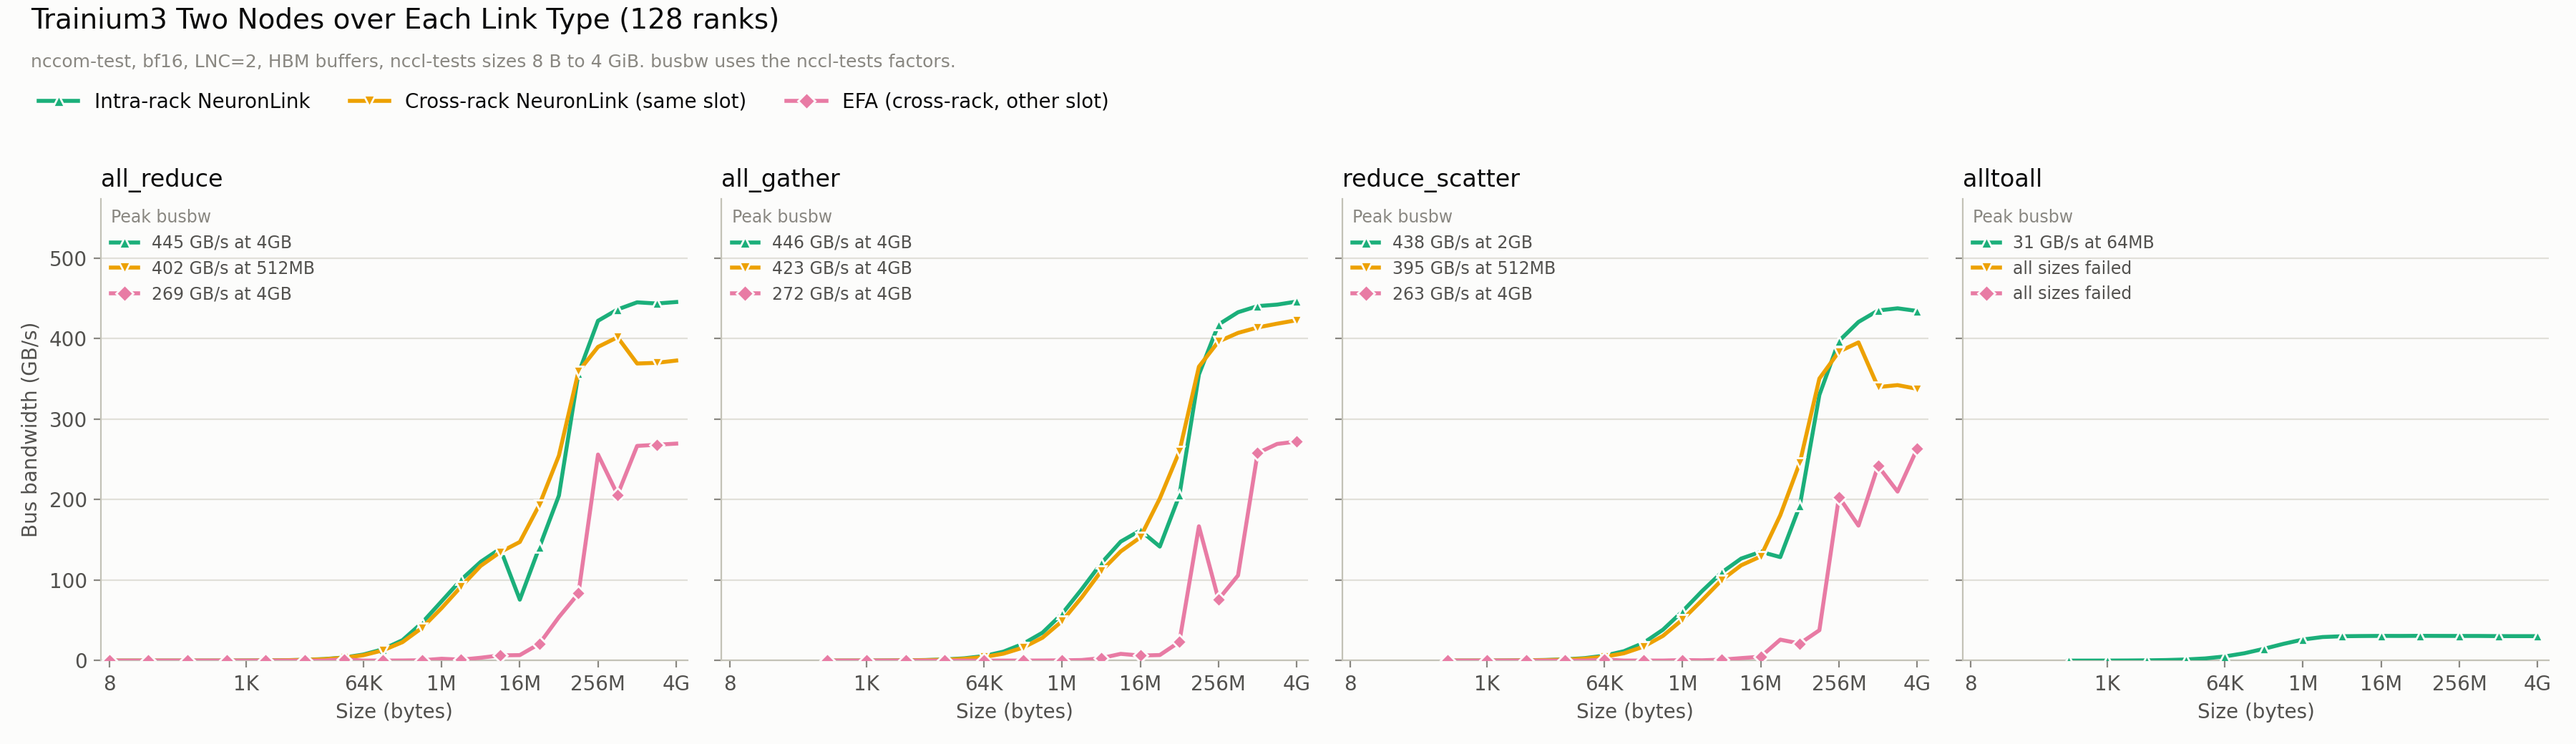
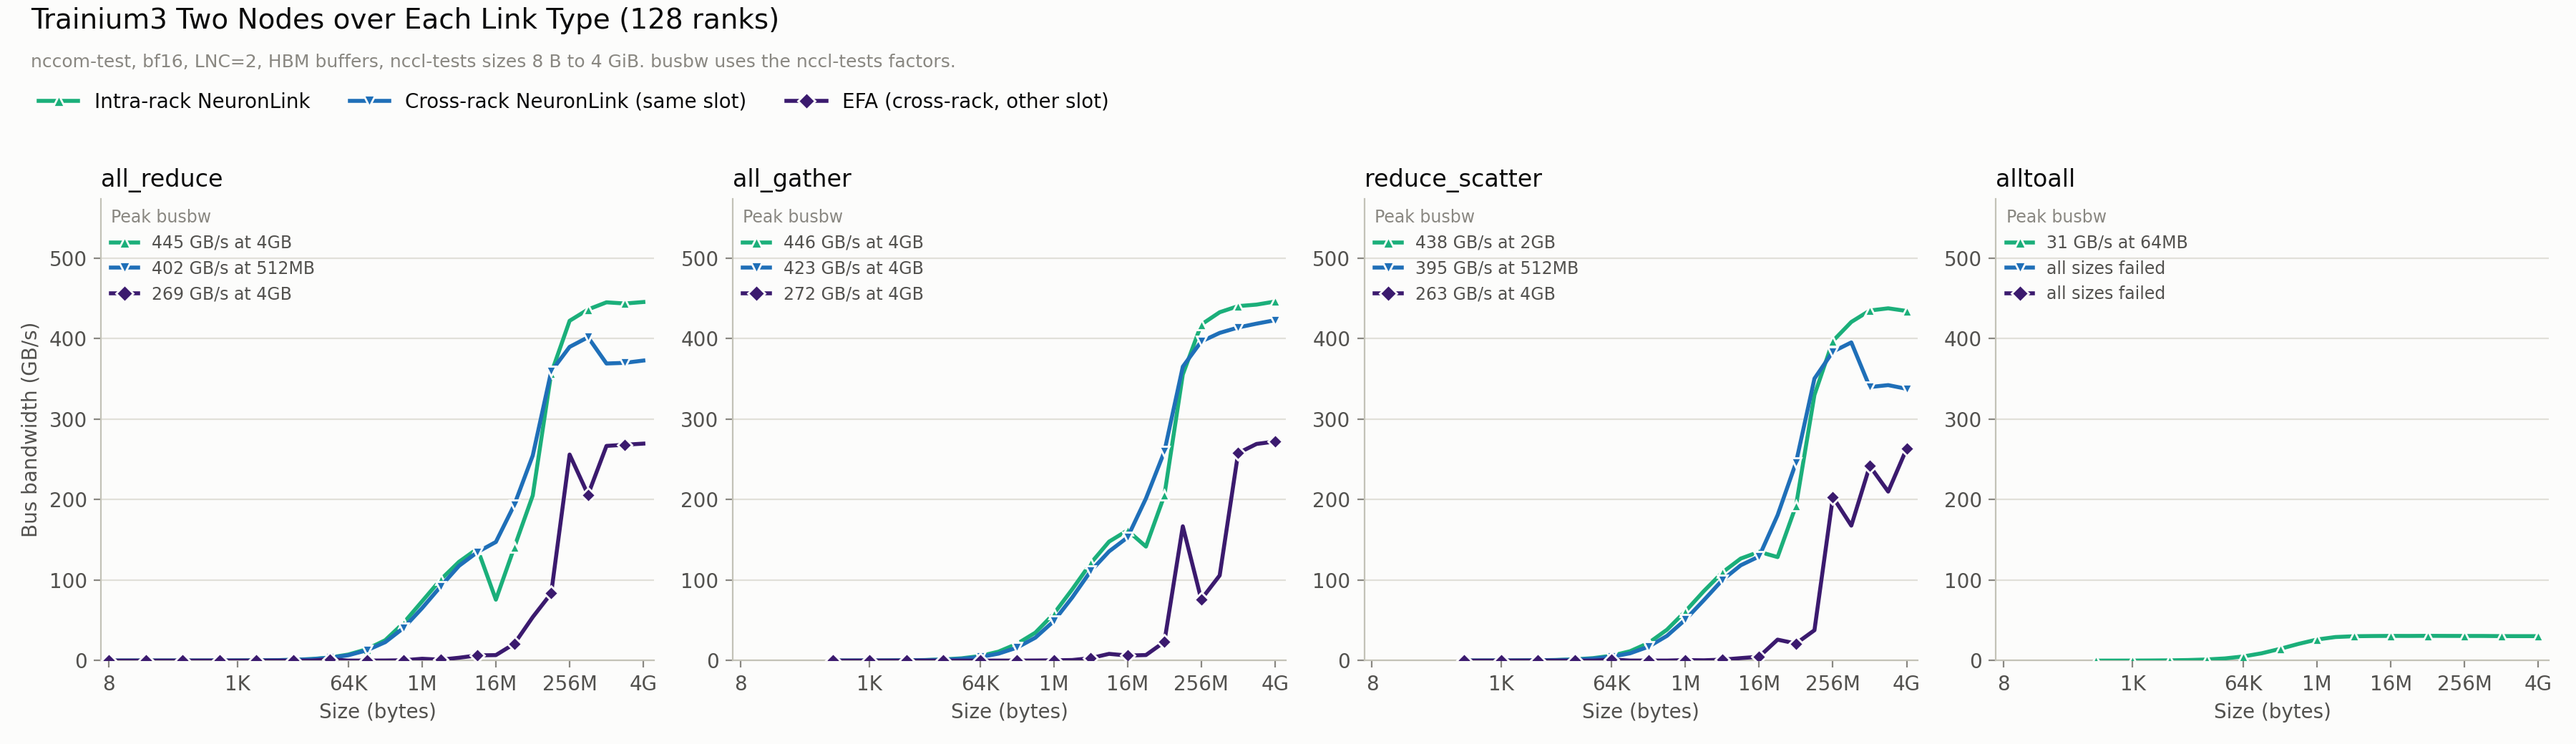
feat(ubenchX): distinguishable colours, per-panel y ticks and run labels in inter-node plots
Each figure orders its series on a ramp that changes hue at every step and gets
darker (yellow, green, blue, purple): smallest to largest job in rank_scaling,
nearest to farthest link in two_node. Every pair stays apart under simulated
colour-vision deficiency. Every panel shows its own y tick labels, and --label
appends a run name to the titles so runs can be told apart. The 2026-11-14
plots are regenerated.

Claude-Session: https://claude.ai/code/session_01C1GQhQw5H99sNq94bx9Afd

diff --git a/ubenchX/trn3_internode_cc/plot.py b/ubenchX/trn3_internode_cc/plot.py
@@ -1,6 +1,6 @@
 """Plot collective bus bandwidth vs size (needs matplotlib).
 
-  python ubenchX/trn3_internode_cc/plot.py internode.csv out_dir --intrachip intrachip.csv
+  python ubenchX/trn3_internode_cc/plot.py internode.csv out_dir --intrachip intrachip.csv [--label "run name"]
 
 Writes two images with one panel per op, all at LNC=2, bf16, nccl-tests sizes:
   rank_scaling.png  1 chip (trn3_intrachip_cc lnc2_r4, HBM), 1 node, 1 rack (2n_rack), 1 UltraServer (4n)
@@ -19,15 +19,17 @@ from matplotlib.lines import Line2D
 from matplotlib.ticker import FixedLocator, NullLocator
 
 SURFACE, INK, INK2, MUTED, GRID, AXIS = "#fcfcfb", "#0b0b0b", "#52514e", "#898781", "#e1e0d9", "#c3c2b7"
-COLOR = {"chip": ("#2a78d6", "o"), "1n": ("#eb6834", "s"), "2n_rack": ("#1baf7a", "^"),
-         "2n_cable": ("#eda100", "v"), "2n_efa": ("#e87ba4", "D"), "4n": ("#008300", "P")}
-FIGURES = [  # file, title, [(key, label)]
+# Each figure orders its series on one ramp, light to dark and yellow through green and blue to purple: each step
+# is a new hue and darker. rank_scaling: smallest to largest job. two_node: nearest link to farthest.
+FIGURES = [  # file, title, [(key, label, color, marker)]
     ("rank_scaling", "Rank Scaling from One Chip to One UltraServer", [
-        ("chip", "1 chip (4 ranks)"), ("1n", "1 node (64 ranks)"), ("2n_rack", "1 rack, 2 nodes (128 ranks)"),
-        ("4n", "1 UltraServer, 4 nodes (256 ranks)")]),
+        ("chip", "1 chip (4 ranks)", "#e0a400", "o"), ("1n", "1 node (64 ranks)", "#1baf7a", "s"),
+        ("2n_rack", "1 rack, 2 nodes (128 ranks)", "#1f6fb8", "^"),
+        ("4n", "1 UltraServer, 4 nodes (256 ranks)", "#3b1a6e", "P")]),
     ("two_node", "Two Nodes over Each Link Type (128 ranks)", [
-        ("2n_rack", "Intra-rack NeuronLink"), ("2n_cable", "Cross-rack NeuronLink (same slot)"),
-        ("2n_efa", "EFA (cross-rack, other slot)")]),
+        ("2n_rack", "Intra-rack NeuronLink", "#1baf7a", "^"),
+        ("2n_cable", "Cross-rack NeuronLink (same slot)", "#1f6fb8", "v"),
+        ("2n_efa", "EFA (cross-rack, other slot)", "#3b1a6e", "D")]),
 ]
 OPS = ["all_reduce", "all_gather", "reduce_scatter", "alltoall"]
 TICKS = [8, 1 << 10, 64 << 10, 1 << 20, 16 << 20, 256 << 20, 4 << 30]
@@ -55,7 +57,7 @@ def style(ax, ymax: float) -> None:
         ax.spines[s].set_visible(False)
     for s in ("left", "bottom"):
         ax.spines[s].set_color(AXIS)
-    ax.tick_params(colors=MUTED, labelcolor=INK2)
+    ax.tick_params(colors=MUTED, labelcolor=INK2, labelleft=True)
 
 
 def main() -> None:
@@ -63,6 +65,7 @@ def main() -> None:
     ap.add_argument("csv")
     ap.add_argument("out_dir")
     ap.add_argument("--intrachip", required=True)
+    ap.add_argument("--label", help="appended to each title, to tell runs apart")
     a = ap.parse_args()
     df = pd.read_csv(a.csv)
     df = df[(df.status == "ok") & (df.buffer == "HBM")][["topology", "op", "bytes", "busbw_GBps"]]
@@ -79,8 +82,7 @@ def main() -> None:
         for ax, op in zip(axes, OPS):
             style(ax, ymax)
             peaks = []
-            for key, label in series:
-                color, marker = COLOR[key]
+            for key, label, color, marker in series:
                 d = df[(df.topology == key) & (df.op == op)].sort_values("bytes")
                 h = Line2D([], [], color=color, lw=2, marker=marker, ms=6, markeredgecolor=SURFACE)
                 if d.empty:
@@ -97,11 +99,12 @@ def main() -> None:
             leg._legend_box.align = "left"
             ax.set_title(op, loc="left", color=INK, fontsize=12)
         axes[0].set_ylabel("Bus bandwidth (GB/s)", color=INK2)
-        handles = [Line2D([], [], color=COLOR[k][0], lw=2, marker=COLOR[k][1], ms=6, markeredgecolor=SURFACE,
-                          label=lab) for k, lab in series]
+        handles = [Line2D([], [], color=color, lw=2, marker=marker, ms=6, markeredgecolor=SURFACE, label=lab)
+                   for _, lab, color, marker in series]
         fig.legend(handles=handles, loc="upper left", ncol=len(handles), frameon=False, labelcolor=INK,
                    fontsize=10, bbox_to_anchor=(0.008, 0.9))
-        fig.suptitle(f"Trainium3 {title}", x=0.012, y=0.99, ha="left", color=INK, fontsize=14)
+        fig.suptitle(f"Trainium3 {title}" + (f": {a.label}" if a.label else ""), x=0.012, y=0.99, ha="left",
+                     color=INK, fontsize=14)
         fig.text(0.012, 0.905, "nccom-test, bf16, LNC=2, HBM buffers, nccl-tests sizes 8 B to 4 GiB. busbw uses the "
                  "nccl-tests factors.", color=MUTED, fontsize=9, ha="left", va="bottom")
         fig.tight_layout(rect=(0, 0, 1, 0.87))

diff --git a/ubenchX/trn3_internode_cc/README.md b/ubenchX/trn3_internode_cc/README.md
@@ -57,7 +57,7 @@ the sweep skips runs that already have results.
 Each run writes `NAME.json` (`nccom-test` report), `NAME.log` (node 0 output; `NAME.n<i>.log` for the others)
 and `NAME.txt` (image, replica groups, nodes, ranks, and per-node EFA transmit bytes before and after the run). `plot.py` writes
 `rank_scaling.png` (1 chip, 1 node, 1 rack, 1 UltraServer) and `two_node.png` (intra-rack NeuronLink, cross-rack
-NeuronLink, EFA), each with one panel per op.
+NeuronLink, EFA), each with one panel per op; `--label` adds a run name to the titles.
 
 ## Reading the numbers
 
